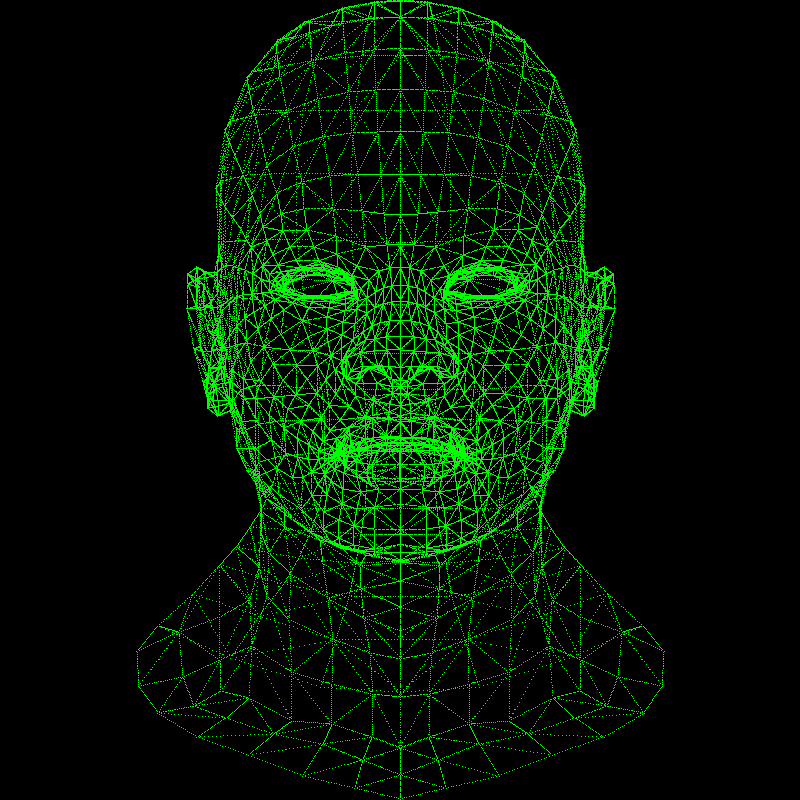
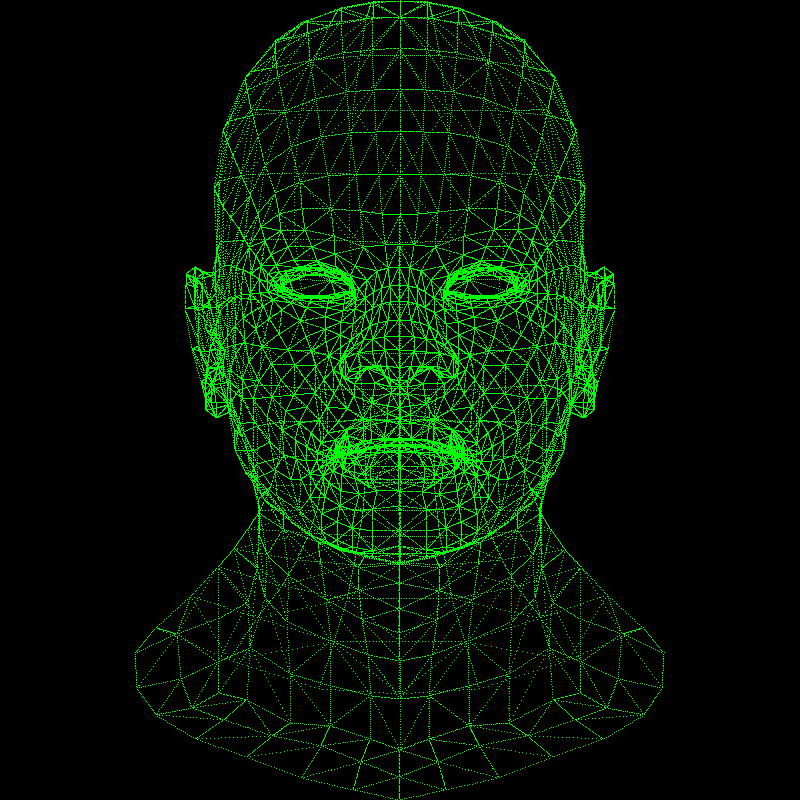
Added z-buffer

diff --git a/src/utils/Drawer.java b/src/utils/Drawer.java
@@ -9,6 +9,7 @@ import javax.imageio.ImageIO;
 import java.awt.*;
 import java.io.File;
 import java.io.IOException;
+import java.util.Arrays;
 import java.util.Random;
 
 public class Drawer {
@@ -39,7 +40,7 @@ public class Drawer {
     }
 
     private static int toInt(double coordinate, int length) {
-        return (int) (coordinate * length / 2);
+        return (int) Math.max(0, Math.min(length - 1, coordinate * length / 2 + length / 2));
     }
 
     private static void outputImage(TgaImage image) throws IOException {
@@ -166,6 +167,10 @@ public class Drawer {
         Random rnd = new Random(SEED);
 
         TgaImage image = new TgaImage("Barycentric");
+        double[][] bufferZ = new double[image.getWidth()][image.getHeight()];
+        for (int i = 0; i < bufferZ.length; i++) {
+            Arrays.fill(bufferZ[i], Double.MIN_VALUE);
+        }
         for (Face face : model.getFaces()) {
             PointDouble p0 = model.getV(face.getVidx(0));
             PointDouble p1 = model.getV(face.getVidx(1));
@@ -182,8 +187,13 @@ public class Drawer {
                 double y = center(yIdx, image.getHeight());
                 for (int xIdx = xmin; xIdx < xmax; xIdx++) {
                     double x = center(xIdx, image.getWidth());
-                    if (inTriangle(x, y, p0, p1, p2)) {
-                        image.setPixel(xIdx, yIdx, color);
+                    double[] l = getBarysticCoordinates(x, y, p0, p1, p2);
+                    if (inTriangle(l)) {
+                        double z = p0.z * l[0] + p1.z * l[1] + p2.z * l[2];
+                        if (z > bufferZ[xIdx][yIdx]) {
+                            image.setPixel(xIdx, yIdx, color);
+                            bufferZ[xIdx][yIdx] = z;
+                        }
                     }
                 }
             }
@@ -192,15 +202,20 @@ public class Drawer {
         outputImage(image);
     }
 
-    private static boolean inTriangle(double x, double y, PointDouble p0, PointDouble p1, PointDouble p2) {
-        double l0 = ((y - p2.y) * (p1.x - p2.x) - (x - p2.x) * (p1.y - p2.y)) / ((p0.y - p2.y) * (p1.x - p2.x) - (p0.x - p2.x) * (p1.y - p2.y));
-        double l1 = ((y - p0.y) * (p2.x - p0.x) - (x - p0.x) * (p2.y - p0.y)) / ((p1.y - p0.y) * (p2.x - p0.x) - (p1.x - p0.x) * (p2.y - p0.y));
-        double l2 = ((y - p1.y) * (p0.x - p1.x) - (x - p1.x) * (p0.y - p1.y)) / ((p2.y - p1.y) * (p0.x - p1.x) - (p2.x - p1.x) * (p0.y - p1.y));
-        return l0 >= 0 && l1 >= 0 && l2 >= 0;
+    private static boolean inTriangle(double[] l) {
+        return l[0] >= 0 && l[1] >= 0 && l[2] >= 0;
+    }
+
+    private static double[] getBarysticCoordinates(double x, double y, PointDouble p0, PointDouble p1, PointDouble p2) {
+        double[] l = new double[3];
+        l[0] = ((y - p2.y) * (p1.x - p2.x) - (x - p2.x) * (p1.y - p2.y)) / ((p0.y - p2.y) * (p1.x - p2.x) - (p0.x - p2.x) * (p1.y - p2.y));
+        l[1] = ((y - p0.y) * (p2.x - p0.x) - (x - p0.x) * (p2.y - p0.y)) / ((p1.y - p0.y) * (p2.x - p0.x) - (p1.x - p0.x) * (p2.y - p0.y));
+        l[2] = ((y - p1.y) * (p0.x - p1.x) - (x - p1.x) * (p0.y - p1.y)) / ((p2.y - p1.y) * (p0.x - p1.x) - (p2.x - p1.x) * (p0.y - p1.y));
+        return l;
     }
 
     private static double center(int idx, int length) {
-        return (idx + .5) * 2 / length;
+        return (idx + .5) * 2 / length - 1;
     }
 
     private static boolean isBackface(PointDouble p0, PointDouble p1, PointDouble p2, PointDouble camera) {

diff --git a/src/objects/TgaImage.java b/src/objects/TgaImage.java
@@ -30,8 +30,8 @@ public class TgaImage {
     }
 
     public void setPixel(int x, int y, Color color) {
-        image.setRGB(Math.max(0, Math.min(image.getWidth() - 1, x + image.getWidth() / 2)),
-                Math.max(0, Math.min(image.getHeight() - 1, y + image.getHeight() / 2)),
+        image.setRGB(Math.max(0, Math.min(x, image.getWidth() - 1)),
+                Math.max(0, Math.min(y, image.getHeight() - 1)),
                 color.getRGB());
     }
 

diff --git a/src/Main.java b/src/Main.java
@@ -13,8 +13,8 @@ public class Main {
 
         ObjectReader reader = new ObjectReader(FILENAME);
         Model model = reader.readModel();
-        Drawer.draw(model);
-        PointDouble camera = new PointDouble(0, 0, 1);
+        //Drawer.draw(model);
+        PointDouble camera = new PointDouble(800, 0, 0);
         Drawer.drawWithBarycentric(model, camera);
     }
 }
